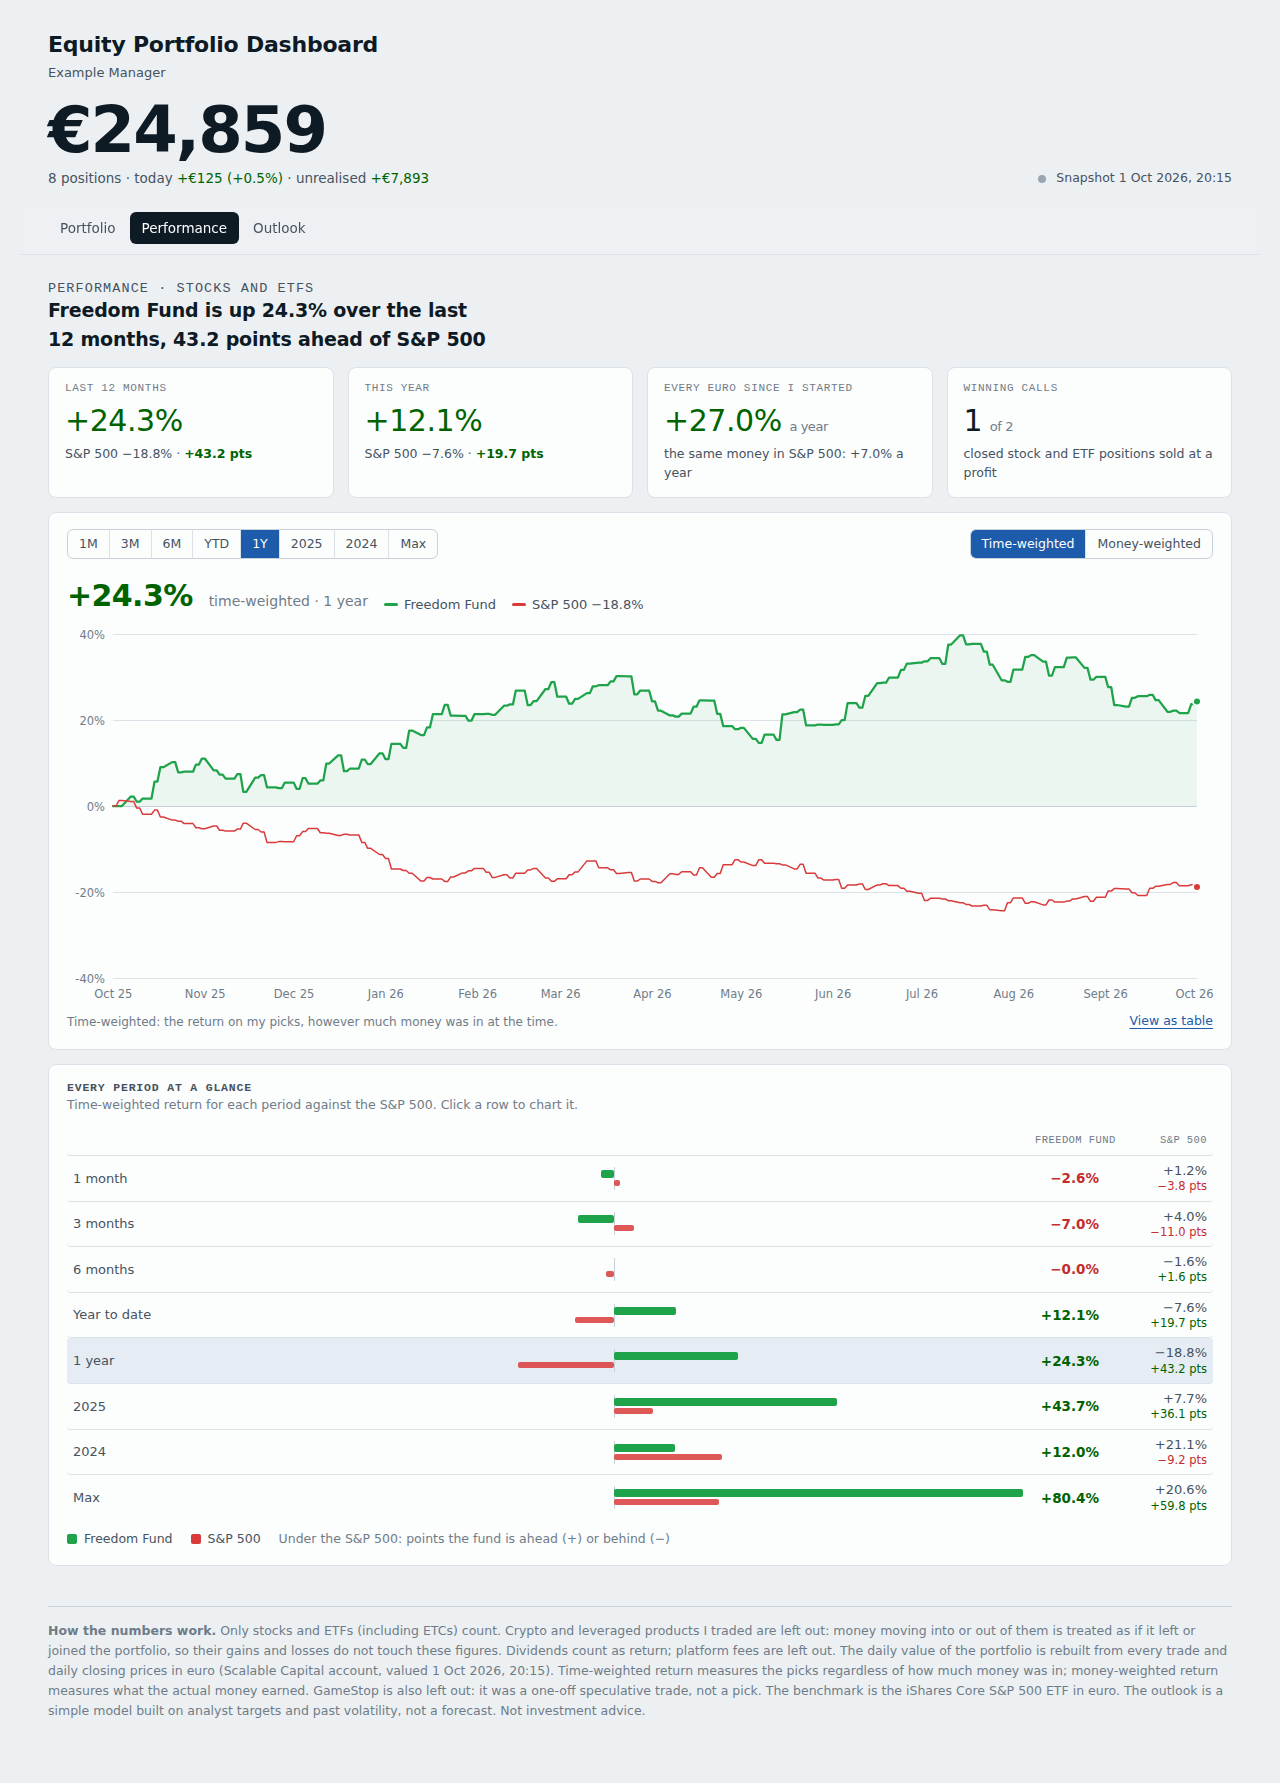
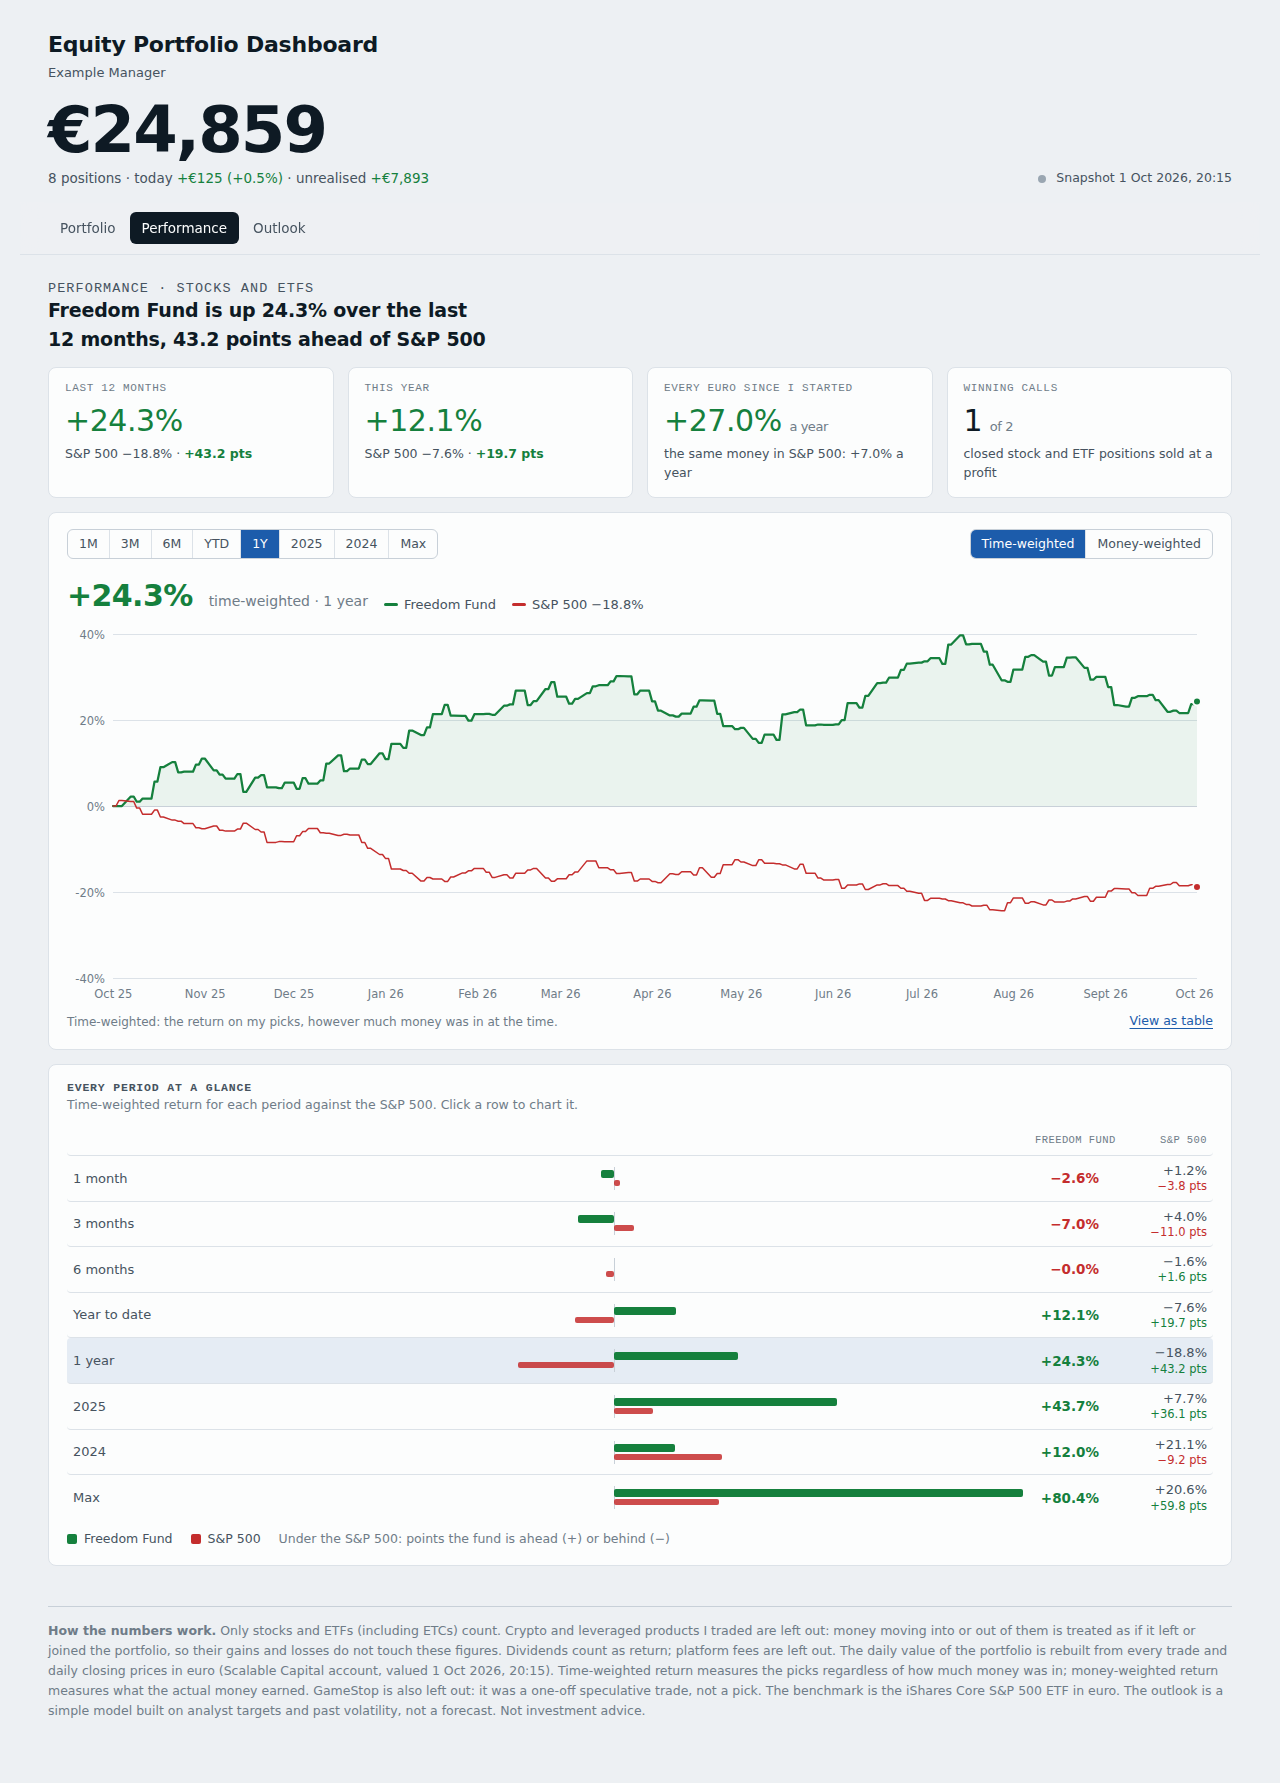
Outlook bands at 1, 2 and 3 sigma; one green and one red throughout
- Range-of-outcomes chart shades ±1σ, ±2σ and ±3σ around the median, labelled at the
  right edge; the range figure reports ±1σ with ±2σ and ±3σ underneath
- Month labels on the chart thin out to fit narrow screens
- Gains, bull cases and the Freedom Fund share one green; losses, bear cases and the
  S&P 500 share one red (separate tones per theme)

Claude-Session: https://claude.ai/code/session_01ABTLXaQmWwDDpoTxDco2CE

diff --git a/src/page/model.js b/src/page/model.js
@@ -353,18 +353,19 @@ function tableTwin(head, rowsArr) {
 
 /* ---------- fan chart: log-normal range of outcomes ---------- */
 const isoDay = (t) => new Date(t).toISOString().slice(0, 10);
-const Zq = [-1.645, -0.674, 0, 0.674, 1.645];
+const Zq = [-3, -2, -1, 0, 1, 2, 3]; // outcome bands at ±1σ, ±2σ and ±3σ around the median
+const ZL = ['−3σ', '−2σ', '−1σ', 'Median', '+1σ', '+2σ', '+3σ'];
 function fanPoints(V0, mu, sigma, steps, perYear = 12) {
   const m = Math.log(1 + mu) - (sigma * sigma) / 2;
   return Array.from({ length: steps + 1 }, (_, k) => { const t = k / perYear; return Zq.map((z) => V0 * Math.exp(m * t + z * sigma * Math.sqrt(t))); });
 }
 function fanChart(host, w, o) {
-  const h = o.height || 290, m = { l: 50, r: 16, t: 12, b: 26 }, C = o.color || 'var(--accent)', RC = o.ref.color || 'var(--ink3)';
+  const h = o.height || 290, m = { l: 50, r: w < 520 ? 88 : 104, t: 12, b: 26 }, C = o.color || 'var(--accent)', RC = o.ref.color || 'var(--ink3)';
   const iw = w - m.l - m.r, ih = h - m.t - m.b, N = o.months;
-  const F = fanPoints(o.V0, o.mu, o.sigma, N), Rf = fanPoints(o.V0, o.ref.mu, o.ref.sigma, N).map((q) => q[2]);
+  const F = fanPoints(o.V0, o.mu, o.sigma, N), Rf = fanPoints(o.V0, o.ref.mu, o.ref.sigma, N).map((q) => q[3]);
   // drawn on a finer grid than the monthly tooltip points, so short horizons curve smoothly
-  const S = 10, FF = fanPoints(o.V0, o.mu, o.sigma, N * S, 12 * S), RF = fanPoints(o.V0, o.ref.mu, o.ref.sigma, N * S, 12 * S).map((q) => q[2]);
-  const lo = Math.min(...F.map((q) => q[0]), ...Rf), hi = Math.max(...F.map((q) => q[4]), ...Rf);
+  const S = 10, FF = fanPoints(o.V0, o.mu, o.sigma, N * S, 12 * S), RF = fanPoints(o.V0, o.ref.mu, o.ref.sigma, N * S, 12 * S).map((q) => q[3]);
+  const lo = Math.min(...F.map((q) => q[0]), ...Rf), hi = Math.max(...F.map((q) => q[6]), ...Rf);
   const ticks = niceTicks(lo, hi, 5), y0 = ticks[0], y1 = ticks[ticks.length - 1];
   const X = (k) => m.l + (k / N) * iw, Y = (v) => m.t + (1 - (v - y0) / (y1 - y0 || 1)) * ih;
   const XF = (j) => X(j / S);
@@ -373,14 +374,17 @@ function fanChart(host, w, o) {
   const d0 = new Date(o.t0), mt = (k) => Date.UTC(d0.getUTCFullYear(), d0.getUTCMonth() + k, d0.getUTCDate());
   let g = '';
   ticks.forEach((tv) => { const y = Math.round(Y(tv)) + 0.5; g += `<line class="gl" x1="${m.l}" x2="${m.l + iw}" y1="${y}" y2="${y}"/><text x="${m.l - 8}" y="${y + 4}" text-anchor="end">${Math.round(tv / 1000)}k</text>`; });
-  const step = N <= 6 ? 1 : N <= 12 ? (iw < 380 ? 4 : 2) : (iw < 380 ? 6 : 3);
+  const fit = Math.max(2, Math.floor(iw / 62)), step = [1, 2, 3, 4, 6, 12].find((s) => N / s <= fit) || 12; // as many month labels as fit
   for (let k = 0; k <= N; k += step) g += `<text x="${X(k)}" y="${h - 6}" text-anchor="middle">${k === 0 ? 'Today' : esc(mlabel(mt(k)))}</text>`;
   const yb = Math.round(Y(o.V0)) + 0.5;
   g += `<line class="base" x1="${m.l}" x2="${m.l + iw}" y1="${yb}" y2="${yb}" stroke-dasharray="2 3"/>`;
-  g += `<path d="${area(4, 0)}" fill="${C}" opacity="0.11"/><path d="${area(3, 1)}" fill="${C}" opacity="0.2"/>`;
+  g += `<path d="${area(6, 0)}" fill="${C}" opacity="0.07"/><path d="${area(5, 1)}" fill="${C}" opacity="0.1"/><path d="${area(4, 2)}" fill="${C}" opacity="0.16"/>`;
   g += `<path d="${path(RF)}" fill="none" stroke="${RC}" stroke-width="1.75" stroke-dasharray="5 4"/>`;
-  g += `<path d="${path(FF.map((q) => q[2]))}" fill="none" stroke="${C}" stroke-width="2.25"/>`;
-  [0, 2, 4].forEach((j) => { const v = F[N][j]; g += `<text x="${X(N) - 4}" y="${Y(v) + (j === 0 ? 14 : j === 4 ? -6 : -6)}" text-anchor="end" style="fill:var(--ink2);font-weight:600">${['5%', '', '95%'][j / 2]}${j === 2 ? '' : ' · '}${fmtEUR0(v)}</text>`; });
+  g += `<path d="${path(FF.map((q) => q[3]))}" fill="none" stroke="${C}" stroke-width="2.25"/>`;
+  // end labels in the right margin, top (+3σ) to bottom (−3σ), spaced so they never overlap
+  const ends = Zq.map((_, j) => ({ j, y: Y(F[N][j]) + 4 })).reverse();
+  ends.forEach((e, i) => { if (i && e.y - ends[i - 1].y < 13) e.y = ends[i - 1].y + 13; });
+  ends.forEach((e) => { g += `<text x="${X(N) + 6}" y="${e.y.toFixed(1)}" style="fill:${e.j === 3 ? C : 'var(--ink2)'};font-weight:${e.j === 3 ? 700 : 500}">${ZL[e.j] === 'Median' ? '' : ZL[e.j] + ' '}${fmtEUR0(F[N][e.j])}</text>`; });
   g += `<line class="xh" id="fxh" x1="0" x2="0" y1="${m.t}" y2="${m.t + ih}" style="display:none"/><rect id="fov" x="${m.l}" y="${m.t}" width="${iw}" height="${ih}" fill="transparent" tabindex="0" role="img" aria-label="${esc(o.aria)}"/>`;
   host.innerHTML = `<svg width="${w}" height="${h}" viewBox="0 0 ${w} ${h}">${g}</svg>`;
   const svg = host.firstChild, ov = svg.querySelector('#fov'), xh = svg.querySelector('#fxh');
@@ -388,7 +392,7 @@ function fanChart(host, w, o) {
   const show = (k, cx, cy) => {
     cur = k; const xx = X(k); xh.setAttribute('x1', xx); xh.setAttribute('x2', xx); xh.style.display = '';
     const q = F[k], r = svg.getBoundingClientRect();
-    showTip(`<div class="th">${k === 0 ? 'Today' : dfmt(isoDay(mt(k))) + ` · ${k} month${k > 1 ? 's' : ''}`}</div>${trow(C, '1 in 20 better than', fmtEUR0(q[4]))}${trow(C, 'Middle half', `${fmtEUR0(q[1])} – ${fmtEUR0(q[3])}`)}${trow(C, 'Median', fmtEUR0(q[2]), 1)}${trow(C, '1 in 20 worse than', fmtEUR0(q[0]))}${trow(RC, o.ref.label + ' median', fmtEUR0(Rf[k]), 1)}`, cx != null ? cx : r.left + xx, cy != null ? cy : r.top + m.t + 20);
+    showTip(`<div class="th">${k === 0 ? 'Today' : dfmt(isoDay(mt(k))) + ` · ${k} month${k > 1 ? 's' : ''}`}</div>${[6, 5, 4, 3, 2, 1, 0].map((j) => trow(C, ZL[j], fmtEUR0(q[j]), j === 3 ? 1 : 0)).join('')}${trow(RC, o.ref.label + ' median', fmtEUR0(Rf[k]), 1)}`, cx != null ? cx : r.left + xx, cy != null ? cy : r.top + m.t + 20);
   };
   const near = (cx) => { const r = svg.getBoundingClientRect(); return Math.max(0, Math.min(N, Math.round(((cx - r.left - m.l) / iw) * N))); };
   ov.addEventListener('pointermove', (e) => show(near(e.clientX), e.clientX, e.clientY));

diff --git a/src/page/views.js b/src/page/views.js
@@ -260,12 +260,12 @@ function renderRisk() {
   </div>
   <div class="kpis4">
     ${kpi('Expected, ' + hzL, fmtSignedPct(exp, 0), cls(exp), `${exp >= 0 ? '+' : ''}${fmtEUR0(exp * V)} · ${esc(bName)} ${fmtSignedPct(bExp, 0)} at historical pace`)}
-    ${kpi('9 in 10 outcomes', `<span class="${cls(q(-1.645))}">${fmtSignedPct(q(-1.645), 0)}</span> <span class="muted">to</span> <span class="${cls(q(1.645))}">${fmtSignedPct(q(1.645), 0)}</span>`, '', `${fmtEUR0(V * (1 + q(-1.645)))} to ${fmtEUR0(V * (1 + q(1.645)))}`)}
+    ${kpi('Range at ±1<span style="text-transform:none">σ</span>', `<span class="${cls(q(-1))}">${fmtSignedPct(q(-1), 0)}</span> <span class="muted">to</span> <span class="${cls(q(1))}">${fmtSignedPct(q(1), 0)}</span>`, '', `±2σ: ${fmtSignedPct(q(-2), 0)} to ${fmtSignedPct(q(2), 0)} · ±3σ: ${fmtSignedPct(q(-3), 0)} to ${fmtSignedPct(q(3), 0)}`)}
     ${kpi('Chance of beating ' + esc(bName), Math.round(pBeat * 100) + '%', pBeat >= 0.5 ? 'pos' : 'neg', `over ${hzL}, correlation ${fmtNum(rho, 2)}`)}
     ${kpi('Volatility', (sigma * 100).toFixed(0) + '%', '', `${esc(bName)} ${(bVol * 100).toFixed(0)}% · beta ${fmtNum(beta, 2)}`)}
   </div>
   <div class="panel" style="margin-top:14px">
-    <h3>Range of outcomes, next ${hzL}</h3><p class="sub">The fund is worth ${fmtEUR0(V)} today. Shaded: 9 in 10 outcomes and the middle half. Dashed: ${esc(bName)} growing at ${bMuTxt}, with its own volatility. Odds ${pr.map((x) => Math.round(x * 100)).join('/')} (bull/base/bear)${n > 12 ? '; beyond 12 months the expected return is assumed to repeat' : ''}.</p>
+    <h3>Range of outcomes, next ${hzL}</h3><p class="sub">The fund is worth ${fmtEUR0(V)} today. Shaded bands: ±1σ, ±2σ and ±3σ around the median, which hold about 68%, 95% and 99.7% of outcomes, given an expected return of ${fmtSignedPct(O.exp, 0)} a year and volatility (σ) of ${(sigma * 100).toFixed(0)}% a year. Dashed: ${esc(bName)} growing at ${bMuTxt}, with its own volatility. Odds ${pr.map((x) => Math.round(x * 100)).join('/')} (bull/base/bear)${n > 12 ? '; beyond 12 months the expected return is assumed to repeat' : ''}.</p>
     <div id="fan" class="chart"></div>
   </div>`;
   $$('#t-risk [data-pre]').forEach((b) => b.addEventListener('click', () => { state.preset = b.dataset.pre; renderRisk(); }));

diff --git a/src/page/style.css b/src/page/style.css
@@ -14,13 +14,14 @@
   --line2: #c8d0d8;
   --accent: #1c5cab;
   --accent-soft: rgba(28, 92, 171, 0.1);
-  --pos: #006300;
+  /* one green and one red everywhere: gains and losses, bull and bear, the fund and the S&P 500 */
+  --pos: #15803d;
   --neg: #c42d2d;
-  --pos-fill: #1fa34a;
-  --neg-fill: #d84a4a;
+  --pos-fill: var(--pos);
+  --neg-fill: var(--neg);
   --warn: #b77900;
   --cn: #9aa6b1;
-  --fund: #1fa34a; --spx: #d93b3b;
+  --fund: var(--pos); --spx: var(--neg);
   --c1: #2a78d6; --c2: #eb6834; --c3: #1baf7a; --c4: #eda100; --c5: #e87ba4; --c6: #008300; --c7: #4a3aa7; --c8: #e34948;
   --gold: #9a7417;
   --radius: 8px;
@@ -30,9 +31,9 @@
     color-scheme: dark;
     --bg: #0b1015; --panel: #131a21; --inset: #1a232b; --ink: #eef3f7; --ink2: #b2bec9; --ink3: #8795a2;
     --line: #232e38; --line2: #33414d; --accent: #3987e5; --accent-soft: rgba(57, 135, 229, 0.16);
-    --pos: #1fb852; --neg: #f27272; --pos-fill: #1f9d4b; --neg-fill: #c94545;
+    --pos: #3fb950; --neg: #f27272; --pos-fill: var(--pos); --neg-fill: var(--neg);
     --warn: #d69a1e; --cn: #66737f;
-    --fund: #2fbf62; --spx: #e66767;
+    --fund: var(--pos); --spx: var(--neg);
     --c1: #3987e5; --c2: #d95926; --c3: #199e70; --c4: #c98500; --c5: #d55181; --c6: #008300; --c7: #9085e9; --c8: #e66767; --gold: #d4b25c;
   }
 }
@@ -40,9 +41,9 @@
   color-scheme: dark;
   --bg: #0b1015; --panel: #131a21; --inset: #1a232b; --ink: #eef3f7; --ink2: #b2bec9; --ink3: #8795a2;
   --line: #232e38; --line2: #33414d; --accent: #3987e5; --accent-soft: rgba(57, 135, 229, 0.16);
-  --pos: #1fb852; --neg: #f27272; --pos-fill: #1f9d4b; --neg-fill: #c94545;
+  --pos: #3fb950; --neg: #f27272; --pos-fill: var(--pos); --neg-fill: var(--neg);
   --warn: #d69a1e; --cn: #66737f;
-  --fund: #2fbf62; --spx: #e66767;
+  --fund: var(--pos); --spx: var(--neg);
     --c1: #3987e5; --c2: #d95926; --c3: #199e70; --c4: #c98500; --c5: #d55181; --c6: #008300; --c7: #9085e9; --c8: #e66767; --gold: #d4b25c;
 }
 

diff --git a/README.md b/README.md
@@ -12,7 +12,7 @@ answers three questions, one per tab. It always opens on Portfolio:
 |---|---|---|
 | **Portfolio** | What is owned and how is each position doing? | Per position, in this order: the share-price change over a period picked with a toggle (1D, 1W, 1M, 3M, 6M, YTD, 1Y), weight, value in euro, return since bought in euro and in per cent (unrealised), the 12-month target range (bear, weighted outcome, bull) and the consensus rating with the upside to the average target. Each opens to the thesis, the written kill-switch, bull and bear cases, industry and competitors, and the latest news |
 | **Performance** | Have the picks made money, and against which index? | Four headline figures; a daily chart of time-weighted (TWR) or money-weighted (MWR) performance for 1M, 3M, 6M, YTD, 1Y, 2025, 2024 or Max (since inception) against the S&P 500, the only benchmark; *Every period at a glance* compares every period with it |
-| **Outlook** | What could happen next? | A horizon toggle (3M, 6M, 1Y, 2Y, 3Y) and three sets of scenario odds (Consensus, Cautious, Stress) drive the expected return, the 9-in-10 range of outcomes, the chance of beating the S&P 500, volatility and beta, and a range-of-outcomes chart |
+| **Outlook** | What could happen next? | A horizon toggle (3M, 6M, 1Y, 2Y, 3Y) and three sets of scenario odds (Consensus, Cautious, Stress) drive the expected return, the range of outcomes at ±1σ, ±2σ and ±3σ, the chance of beating the S&P 500, volatility and beta, and a range-of-outcomes chart |
 
 ![Performance tab, built from the synthetic sample](docs/sample-record.png)
 
@@ -172,7 +172,7 @@ average target, 25% bull. The three presets weight bull, base and bear at 25/50/
 (*Cautious*) and 5/35/60 (*Stress*).
 
 **Range of outcomes.** A log-normal model: the median path is `V0 · exp((ln(1+μ) − σ²/2)·t)`, and the bands
-are the 5th, 25th, 75th and 95th percentiles. μ is the expected 12-month return under the chosen preset, assumed
+are ±1σ, ±2σ and ±3σ around the median (about 68%, 95% and 99.7% of outcomes). μ is the expected 12-month return under the chosen preset, assumed
 to repeat for horizons beyond a year, and σ the back-cast volatility. The S&P 500 is drawn at its own
 historical annualised growth since January 1989 (from `index_history.json`) with its own volatility. The ETF
 on the page only starts in 2009, so the long run uses the index itself, in US dollars. Like the analyst price targets behind the portfolio's expected return,
